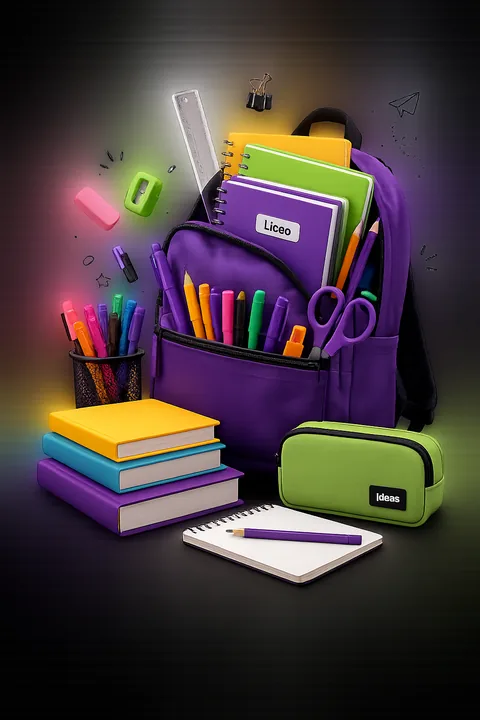
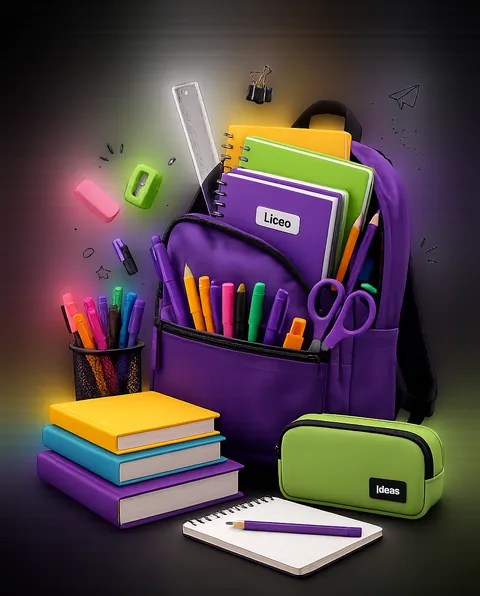
feat(tienda): la portada del celular tiene la foto de fondo
En el celular la portada eran titulo, bajada y dos botones sobre negro, sin una
sola imagen. La de escritorio esta oculta abajo de 1000px a proposito: es
apaisada, y en 390 px de ancho queda una franja donde no se distingue nada,
ademas de empujar el "Ver el catalogo" abajo del pliegue.

Esta va de fondo de la portada entera, con 6 px de desenfoque. Se probaron tres
formas antes: nitida detras del texto hay que taparla tanto para que el blanco
se lea que se apaga sola; como franja de 210 px se ve como una rebanada al azar,
con la mochila cortada; y entera abajo del texto empuja los rubros a una
pantalla de distancia. De fondo no cuesta un pixel de altura y no hay ningun
borde que se note.

Para que se vea con tan poco desenfoque hubo que resolver el contraste. Medido
contra el pixel mas claro que le toca debajo a cada texto, el gris de apoyo
daba 3,3:1 y hacen falta 4,5:1. Se sube el texto a blanco con una sombra suave,
en vez de cargarle mas velo a la foto que es lo que no hay que tapar: el bajo
pasa a 7,5:1 y el lugar a 8,0:1.

El velo que queda no es parejo, carga arriba donde estan las letras y afloja
abajo donde solo hay fichas de color, que se defienden solas.

La imagen se recorto en el archivo, no con CSS: sobraba un 19% de negro abajo y
un 2% arriba, medido sobre los pixeles. Va en dos tamanos por srcset, 28 kB en
pantalla comun y 86 kB en retina.

Escritorio no cambia y el corte a 1000 px se verifico a los dos lados.

diff --git a/tienda/src/estilos/app.css b/tienda/src/estilos/app.css
@@ -135,65 +135,71 @@
 .portada__fondo { display: none; }
 
 @media (max-width: 999px) {
-  /* La foto NO va atrás del texto, va abajo.
-     Se probó de fondo con el texto encima y no funciona: para que el blanco se
-     lea sobre una mochila violeta y unos fibrones fluor hace falta un velo tan
-     cargado que apaga justo lo que la foto tiene para mostrar, que es el color.
-     Puesta abajo, cada cosa tiene su lugar: el texto sobre negro limpio y la
-     foto entera, sin velo.
-
-     Y sigue sin costarle altura al botón: el bloque de texto queda igual que
-     antes y la foto empieza donde antes había fondo vacío. */
-  .portada__hero {
+  /* La foto va de fondo de la portada entera, y bien desenfocada.
+     Nítida detrás del texto no funciona: para que el blanco se lea sobre la
+     mochila violeta y los fibrones fluor hace falta un velo tan cargado que
+     apaga justo lo que la foto tiene para mostrar. Con un desenfoque suave se
+     ve la mochila, los cuadernos y los fibrones, pero sin bordes duros que
+     compitan con las letras. Y no le cuesta un píxel de altura a la portada,
+     que es lo que hay que cuidar acá. */
+  .portada {
     position: relative;
     overflow: hidden;
-    padding-bottom: 0 !important;
+    isolation: isolate;
   }
 
   .portada__fondo {
     display: block;
-    position: relative;
-    /* Sangra hasta los bordes, saliéndose del padding del contenedor. */
-    width: 100vw;
-    margin-left: 50%;
-    transform: translateX(-50%);
-    margin-top: var(--e-5);
-    /* Alto fijo: es una franja de la foto, no la foto entera. Lo que entra es
-       la parte de abajo, que es la más rica —los libros, la cartuchera, el
-       anotador— y la que mejor se lee a este tamaño. */
-    height: 210px;
+    position: absolute;
+    /* Se pasa de los bordes a propósito: el desenfoque come el borde de la
+       imagen y deja una franja clara si el elemento termina justo. */
+    inset: -12%;
+    z-index: -1;
   }
   .portada__fondo img {
     width: 100%;
     height: 100%;
     object-fit: cover;
-    object-position: center 78%;
+    filter: blur(6px) saturate(1.2);
   }
 
-  /* Se desvanece contra el negro arriba y abajo, así la franja no queda con dos
-     cortes rectos y se lee como parte de la sección y no como una foto pegada
-     encima. */
+  /* Dos capas encima. La pareja baja todo hasta que el texto blanco tiene
+     contraste de sobra; la vertical cierra contra el negro del encabezado
+     arriba y contra la sección de productos abajo, para que el bloque no
+     termine en un corte. */
   .portada__fondo::after {
     content: '';
     position: absolute;
     inset: 0;
+    /* El velo no es parejo: carga arriba, donde están el título y la bajada, y
+       afloja abajo, donde sólo hay fichas de color que se defienden solas. Con
+       poco desenfoque la foto tiene detalle y el texto necesita esa ayuda. */
     background: linear-gradient(to bottom,
       var(--ink-superficie) 0%,
-      transparent 22%,
-      transparent 74%,
+      color-mix(in srgb, var(--ink-superficie) 62%, transparent) 18%,
+      color-mix(in srgb, var(--ink-superficie) 62%, transparent) 52%,
+      color-mix(in srgb, var(--ink-superficie) 34%, transparent) 78%,
       var(--ink-superficie) 100%);
   }
 
-  .portada__cuerpo,
-  .portada > .resplandores { position: relative; z-index: 1; }
+  /* Con la foto de fondo, los cuatro halos de color eran color de más sobre lo
+     mismo. Quedan apenas, para que el borde de arriba siga teniendo el tinte
+     de marca. */
+  .portada > .resplandores { opacity: .35; }
 
-  /* Menos resplandor: con la foto abajo, los cuatro halos de color encima del
-     texto eran color de más para la misma pantalla. */
-  .portada > .resplandores { opacity: .5; }
-
-  /* La sección de rubros arranca pegada a la foto, sin el escalón de aire que
-     dejaba el padding de la portada. */
-  .portada > .contenedor:not(.portada__hero) { padding-top: var(--e-5); }
+  /* Sobre la foto, el gris de apoyo se queda en 3,3:1 y hace falta 4,5:1.
+     Medido, no estimado: ver el contraste contra el píxel más claro que le toca
+     debajo. Se sube el texto a blanco en vez de cargarle más velo a la foto,
+     que es justo lo que no queremos tapar. La sombra suave hace el resto contra
+     los puntos más brillantes de la imagen. */
+  .portada__lugar,
+  .portada__bajada {
+    color: var(--ink-texto);
+    text-shadow: 0 1px 14px color-mix(in srgb, var(--ink-superficie) 80%, transparent);
+  }
+  .portada__titulo {
+    text-shadow: 0 2px 18px color-mix(in srgb, var(--ink-superficie) 70%, transparent);
+  }
 }
 
 /* Con el teclado del sistema en "menos movimiento", la foto se queda quieta

diff --git a/tienda/src/paginas/inicio.js b/tienda/src/paginas/inicio.js
@@ -35,21 +35,26 @@ function ilustracion() {
  * apaisada y ocupa la mitad derecha de la portada; en una pantalla de 390 px esa
  * proporcion deja una franja de 120 px de alto donde no se distingue nada.
  *
- * Va DEBAJO del texto, no de fondo. Con el texto encima hay que cargarle un velo
- * tan oscuro para que el blanco se lea sobre la mochila violeta que apaga
- * justamente lo que la foto tiene para mostrar. Abajo, cada cosa tiene su lugar
- * y la foto va sin velo.
+ * Va de fondo de la portada entera y bien difuminada. Nitida detras del texto no
+ * se puede: para que el blanco se lea sobre la mochila violeta hace falta un
+ * velo tan cargado que apaga la foto. Desenfocada deja de competir —queda como
+ * luz de color, no como imagen— y el texto se lee sin pelear con nada.
  *
- * Y no le cuesta altura al boton "Ver el catalogo", que es la razon por la que
- * la imagen estaba oculta en el celular: el bloque de texto queda igual que
- * antes y la foto arranca donde antes habia fondo vacio.
+ * Ademas no le cuesta un pixel de altura a la portada, que es la razon por la
+ * que la imagen estaba oculta en el celular: el boton "Ver el catalogo" tiene
+ * que entrar en la primera pantalla.
+ *
+ * El archivo va chico a proposito, 360 px de ancho y 17 kB. Con 26 px de
+ * desenfoque el detalle no sobrevive, asi que mandar la version grande seria
+ * gastar 86 kB del plan de datos del cliente para que se vean las mismas
+ * manchas de color.
  */
 function ilustracionMovil() {
   return `
     <div class="portada__fondo" aria-hidden="true">
       <img src="/portada-movil.webp"
            srcset="/portada-movil.webp 480w, /portada-movil@2x.webp 960w"
-           sizes="100vw" alt="" width="480" height="720"
+           sizes="100vw" alt="" width="480" height="596"
            fetchpriority="high" decoding="async">
     </div>`;
 }
@@ -77,6 +82,7 @@ export async function inicio({ montar }) {
   // así que aparece de inmediato y la primera pantalla nunca está en blanco.
   montar(`
     <section class="marco-oscuro marco-oscuro--vivo portada">
+      ${ilustracionMovil()}
       ${resplandores()}
       <div class="contenedor portada__hero" style="padding-block:var(--e-7)">
         <div class="portada__cuerpo">
@@ -100,7 +106,6 @@ export async function inicio({ montar }) {
           </div>
           ${ilustracion()}
         </div>
-        ${ilustracionMovil()}
       </div>
 
       <div class="contenedor" style="padding-bottom:var(--e-7)">
